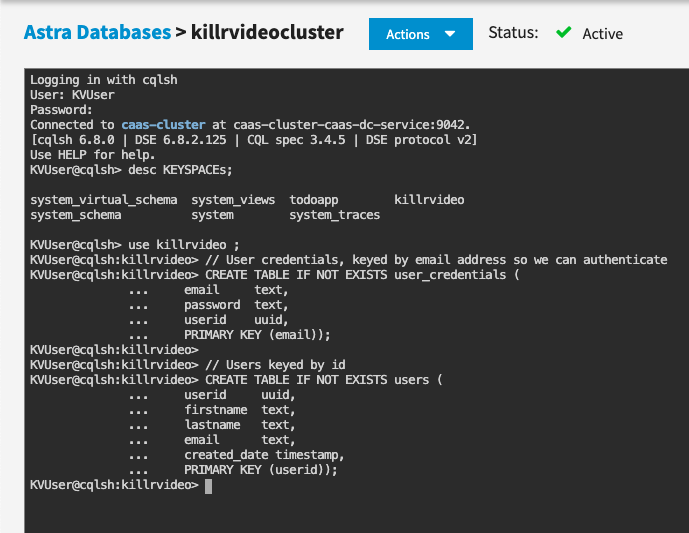
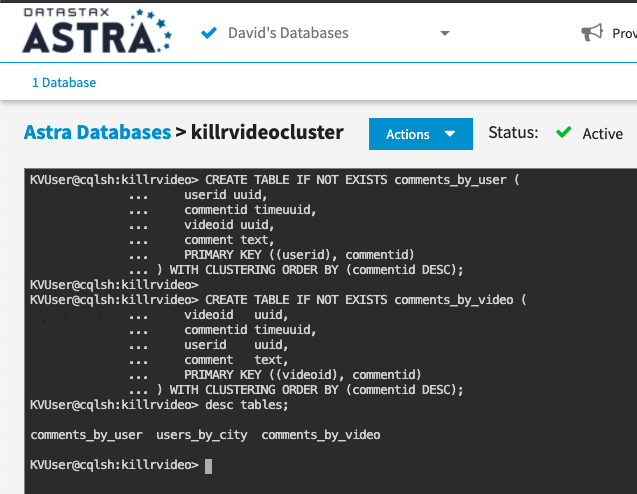
Added the create and read CRUD sections

diff --git a/README.md b/README.md
@@ -11,7 +11,8 @@ In this repository, you'll find everything you need for this workshop:
 |---|---|
 | **Slide deck** | [Slide deck for the workshop](slides/Presentation.pdf) |
 | **1. Create your Astra instance** | [Create your Astra instance](#1-create-your-astra-instance) |
-| **2. Create tables and run simple CRUD ops** | [Create tables and run simple CRUD ops](#2-create-tables-and-run-simple-crud-ops) |
+| **2. Create a table** | [Create a table](#2-create-a-table) |
+| **3. Execute CRUD (Create, Read, Update, Delete) operations** | [Execute CRUD operations](#3-execute-crud-operations) |
 
 
 ## 1. Create your Astra instance
@@ -72,8 +73,8 @@ Let’s review the database you have configured. In the box on the left side of 
 [🏠 Back to Table of Contents](#table-of-contents)
 
 
-## 2. Create tables and run simple CRUD operations
-Ok, now that you have a database created the next step is to create some tables we can use to work with. 
+## 2. Create a table
+Ok, now that you have a database created the next step is to create a table to work with. 
 
 **✅ Step 2a. Navigate to the CQL Console and login to the database**
 
@@ -93,7 +94,7 @@ At this point you should see something like the following:
 
 **✅ Step 2b. Describe keyspaces and USE killrvideo**
 
-Ok, you're logged in, and now we're ready to rock. Creating tables is quite easy, but before we create some tables we need to tell the database which keyspace we are working with.
+Ok, you're logged in, and now we're ready to rock. Creating tables is quite easy, but before we create one we need to tell the database which keyspace we are working with.
 
 First, let's **_DESCRIBE_** all of the keyspaces that are in the database. This will give us a list of the available keyspaces.
 
@@ -118,58 +119,184 @@ use killrvideo;
 
 ![Use keyspaces](images/astra-use-cql-console-use-killrvideo.png?raw=true)
 
-Notice how the prompt displays ```KVUser@cqlsh:killrvideo>``` informing us we are **using** the **_killrvideo_** keyspace. Now we are ready to create our tables.
+Notice how the prompt displays ```KVUser@cqlsh:killrvideo>``` informing us we are **using** the **_killrvideo_** keyspace. Now we are ready to create our table.
 
-**✅ Step 2c. Create some tables**
+**✅ Step 2c. Create the _users_by_city_ table**
 
-At this point we can execute the commands to create some tables. Don't worry about the details of the commands just yet, we'll explain more in the workshop. For now, just copy/paste the following commands into your CQL console at the prompt.
+At this point we can execute a command to create the **_users_by_city_** table using the information provided during the workshop presenation. Just copy/paste the following command into your CQL console at the prompt.
 
-📘 **Commands to execute**
+📘 **Command to execute**
 
 ```
-// User credentials, keyed by email address so we can authenticate
-CREATE TABLE IF NOT EXISTS user_credentials (
-    email     text,
-    password  text,
-    userid    uuid,
-    PRIMARY KEY (email));
+// Users keyed by city
+CREATE TABLE IF NOT EXISTS users_by_city ( 
+	city text, 
+	last_name text, 
+	first_name text, 
+	address text, 
+	email text, 
+	PRIMARY KEY ((city), last_name, first_name, email));
+```
 
-// Users keyed by id
-CREATE TABLE IF NOT EXISTS users (
-    userid     uuid,
-    firstname  text,
-    lastname   text,
-    email      text,
-    created_date timestamp,
-    PRIMARY KEY (userid));
+Then **_DESCRIBE_** your keyspace tables to ensure it is there.
 
+📘 **Command to execute**
+
+```
+desc tables;
 ```
 
 📗 **Expected output**
 
-![Create tables](images/astra-use-cql-console-create-tables.png?raw=true)
+![Create users by city table](images/astra-use-cql-console-create-users-by-city.png?raw=true)
 
-**✅ Step 2d. Create some tables**
+Aaaand **BOOM**, you created a table in your database. That's it. Now, we'll move to the next section in the presentation and break down the method used to create a data model with Apache Cassandra.
 
-example insert statements
+## 3. Execute CRUD operations
+CRUD operations stand for create, read, update, and delete. Simply put, they are the basic types of commands you need to work with ANY database in order to maintain data for your applications.
+
+**✅ Step 3a. Create a couple more tables**
+
+We started by creating the **_users_by_city_** table earlier, but now we need to create some tables to support **user** and **video** comments per the "Art of Data Modeling" section of the presentation. Let's go ahead and do that now. Execute the following statements to create our tables.
+
+📘 **Commands to execute**
+
 ```
-INSERT INTO killrvideo.users (userid, created_date, firstname, lastname, email)
-  VALUES(77777777-7777-7777-7777-777777777777, toTimestamp(now()), 'Aleks', 'volochnev', 'av@datastax.com');
-INSERT INTO killrvideo.user_credentials (userid, email, password)
-  VALUES(77777777-7777-7777-7777-777777777777, 'av@datastax.com', 'C@ss@ndr@3v3rywh3r3');
+CREATE TABLE IF NOT EXISTS comments_by_user (
+    userid uuid,
+    commentid timeuuid,
+    videoid uuid,
+    comment text,
+    PRIMARY KEY ((userid), commentid)
+) WITH CLUSTERING ORDER BY (commentid DESC);
 
-INSERT INTO killrvideo.users (userid, created_date, firstname, lastname, email)
-  VALUES(44444444-4444-4444-4444-444444444444, toTimestamp(now()), 'David', 'Gilardi', 'dg@datastax.com');
-INSERT INTO killrvideo.user_credentials (userid, email, password)
-  VALUES(44444444-4444-4444-4444-444444444444, 'dg@datastax.com', 'H@t$0ff2C@ss@ndr@');
-
-INSERT INTO killrvideo.users (userid, created_date, firstname, lastname, email)
-  VALUES(22222222-2222-2222-2222-222222222222, toTimestamp(now()), 'Eric', 'Zietlow', 'ez@datastax.com');
-INSERT INTO killrvideo.user_credentials (userid, email, password)
-  VALUES(22222222-2222-2222-2222-222222222222, 'ez@datastax.com', 'C@ss@ndr@R0ck$');
-
-INSERT INTO killrvideo.users (userid, created_date, firstname, lastname, email)
-  VALUES(33333333-3333-3333-3333-333333333333, toTimestamp(now()), 'Cedrick', 'Lunven', 'cl@datastax.com');
-INSERT INTO killrvideo.user_credentials (userid, email, password)
-  VALUES(33333333-3333-3333-3333-333333333333, 'cl@datastax.com', 'Fr@nc3L0v3$C@ss@ndr@');
+CREATE TABLE IF NOT EXISTS comments_by_video (
+    videoid   uuid,
+    commentid timeuuid,
+    userid    uuid,
+    comment   text,
+    PRIMARY KEY ((videoid), commentid)
+) WITH CLUSTERING ORDER BY (commentid DESC);
 ```
+
+Then **_DESCRIBE_** your keyspace tables to ensure they are both there.
+
+📘 **Command to execute**
+
+```
+desc tables;
+```
+
+📗 **Expected output**
+
+![Create users by city table](images/astra-use-cql-console-create-tables.png?raw=true)
+
+**✅ Step 3b. (C)RUD = create = insert data**
+
+Our tables are in place so let's put some data in them. This is done with the **INSERT** statement. We'll start by inserting data into the **_comments_by_user_** table.
+
+📘 **Commands to execute**
+
+```
+// Comment for a given user
+INSERT INTO comments_by_user (
+  userid, //uuid: unique id for a user
+  commentid, //timeuuid: unique uuid + timestamp
+  videoid, //uuid: id for a given video
+  comment //text: the comment text
+)
+VALUES (
+  11111111-1111-1111-1111-111111111111, 
+  NOW(), 
+  12345678-1234-1111-1111-111111111111, 
+  'I so grew up in the 80''s'
+);
+
+// More comments for the same user for the same video
+INSERT INTO comments_by_user (userid, commentid, videoid, comment)
+VALUES (11111111-1111-1111-1111-111111111111, NOW(), 12345678-1234-1111-1111-111111111111, 'I keep watching this video');
+INSERT INTO comments_by_user (userid, commentid, videoid, comment)
+VALUES (11111111-1111-1111-1111-111111111111, NOW(), 12345678-1234-1111-1111-111111111111, 'Soo many comments for the same video');
+
+// A comment from another user for the same video
+INSERT INTO comments_by_user (userid, commentid, videoid, comment)
+VALUES (22222222-2222-2222-2222-222222222222, NOW(), 12345678-1234-1111-1111-111111111111, 'I really like this video too!');
+```
+
+_Note, we are using "fake" generated UUID's in this dataset. If you wanted to generate UUID's on the fly just use ```UUID()``` per the documentation [HERE](https://docs.datastax.com/en/cql-oss/3.3/cql/cql_reference/timeuuid_functions_r.html)_.
+
+Ok, let's **INSERT** more this time using the **_comments_by_video_** table.
+
+📘 **Commands to execute**
+
+```
+// Comment for a given video
+INSERT INTO comments_by_video (
+  videoid, //uuid: id for a given video
+  commentid, //timeuuid: unique uuid + timestamp
+  userid, //uuid: unique id for a user
+  comment //text: the comment text
+)
+VALUES (
+  12345678-1234-1111-1111-111111111111, 
+  NOW(), 
+  11111111-1111-1111-1111-111111111111, 
+  'This is such a cool video'
+);
+
+// More comments for the same video by different users
+INSERT INTO comments_by_video (videoid, commentid, userid, comment)
+VALUES(12345678-1234-1111-1111-111111111111, NOW(), 22222222-2222-2222-2222-222222222222, 'Suck a killr edit');
+INSERT INTO comments_by_video (videoid, commentid, userid, comment)
+VALUES(12345678-1234-1111-1111-111111111111, NOW(), 77777777-7777-7777-7777-777777777777, 'OMG that guy Patrick is on fleek!');
+
+// A comment for a different video from another user
+INSERT INTO comments_by_video (videoid, commentid, userid, comment)
+VALUES(08765309-1234-9999-9999-111111111111, NOW(), 55555555-5555-5555-5555-555555555555, 'Never thought I''d see a video about databases');
+```
+
+**✅ Step 3c. C(R)UD = read = read data**
+
+Now that we've inserted a set of data, let's take a look at how to read that data back out. This is done with a **SELECT** statement. In its simplist form we could just execute a statement like the following **_**cough_** **_**cough_**:
+```
+SELECT * FROM comments_by_user;
+```
+
+You may have noticed my coughing fit a moment ago. Even though you can execute a **SELECT** statement with no partition key definied this is NOT something you should do when using Apache Cassandra. We are doing it here for illustration purposes only and because our dataset only has a handful of values. Given the data we inserted earlier a more proper statement would be something like:
+```
+SELECT * FROM comments_by_user WHERE userid = 11111111-1111-1111-1111-111111111111;
+```
+
+The key is to ensure we are always selecting by some partition key at a minimum.
+
+Ok, so with that out of the way let's **READ** the data we _"created"_ earlier with our **INSERT** statements.
+
+📘 **Commands to execute**
+
+```
+// Read all data from the comments_by_user table
+SELECT * FROM comments_by_user;
+
+// Read all data from the comments_by_video table
+SELECT * FROM comments_by_video;
+```
+
+📗 **Expected output**
+
+![Select from tables](images/astra-use-cql-console-select-from-tables.png?raw=true)
+
+Once you execute the above **SELECT** statements you should see something like the expected output above. We have now **READ** the data we **INSERTED** earlier. Awesome job!
+
+_BTW, just a little extra for those who are interested. Since we used a [TIMEUUID](https://docs.datastax.com/en/cql-oss/3.3/cql/cql_reference/timeuuid_functions_r.html) type for our **commentid** field we can use the **dateOf()** function to determine the timestamp from the value. Check it out._
+
+```
+// Read all data from the comments_by_user table, 
+// convert commentid into a timestamp, and label the column "datetime"
+select userid, dateOf(commentid) as datetime, videoid, comment from comments_by_user;
+```
+
+
+**✅ Step 3d. CR(U)D = update = update data**
+
+
+**✅ Step 3e. CRU(D) = delete = remove data**
